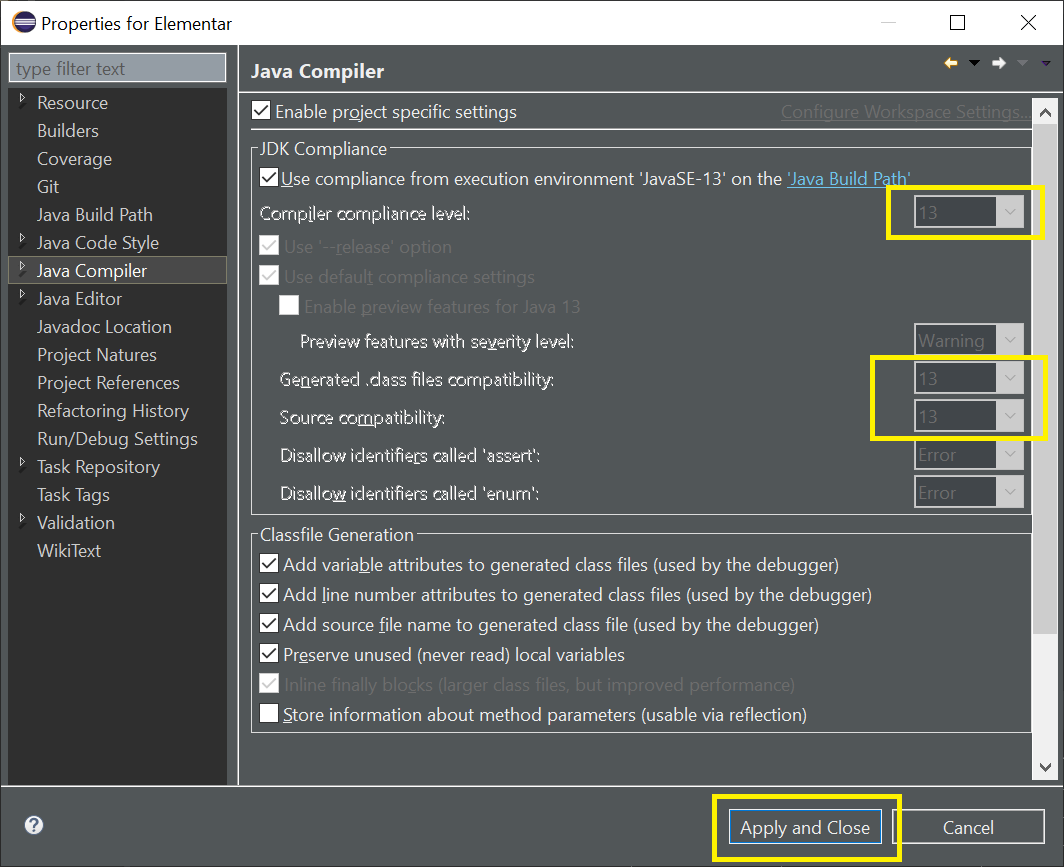
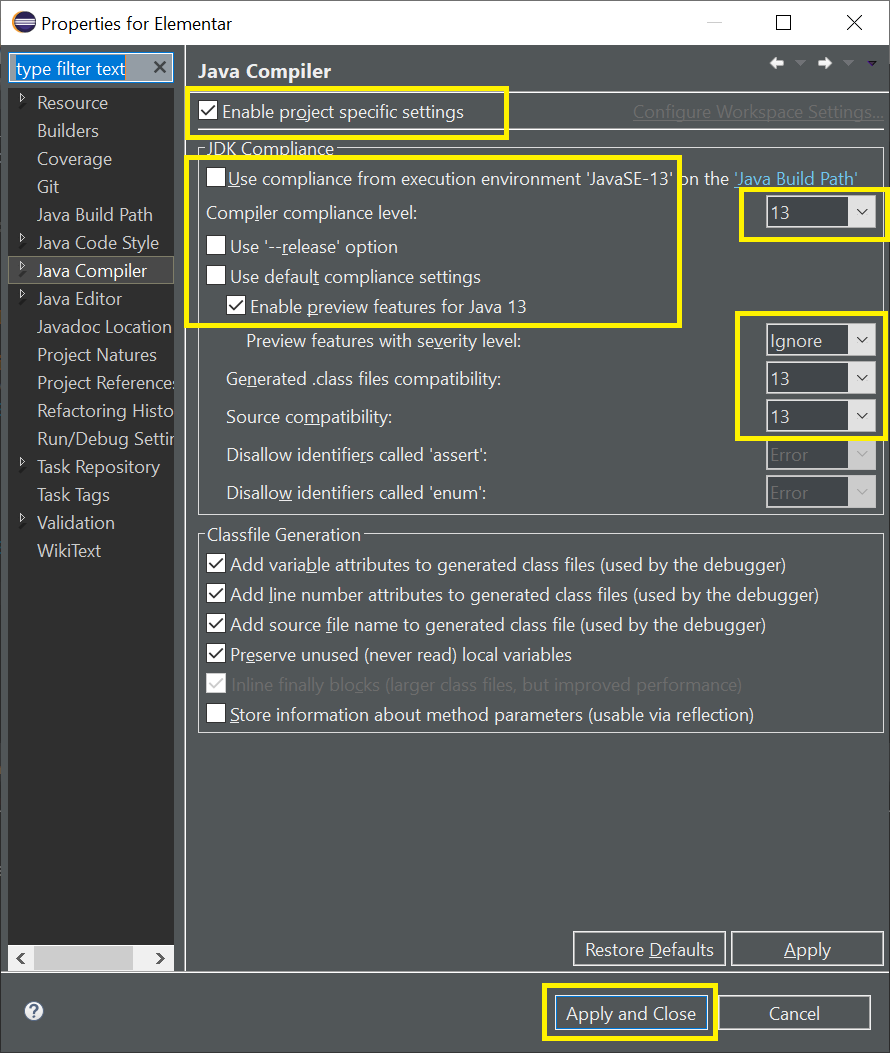
Strings multilinhas,com aspas e car.especiais

Changed region(s): [[0.0, 0.0, 1.0, 0.9965]]

diff --git a/Elementar/src/oracle/Magazine2019_10_22.java b/Elementar/src/oracle/Magazine2019_10_22.java
@@ -1,0 +1,26 @@
+package oracle;
+
+/*
+ * Autor: Magazine Oracle.com
+ * 
+ * Nota : Para correto uso no eclipse veja as configurações
+ *        que você precissa fazer no package a.config.eclipse
+ *        principalmente 5-java-compiler.png
+ */
+
+public class Magazine2019_10_22 {
+
+	public static void main(String[] args) {
+		
+		// Exemplo citado na revista da oracle deste mês 22/10/2019
+		
+		String html = """
+				<HTML>
+				  <BODY>
+				    <H1>"Java 13 is here!"</H1>
+				  </BODY>
+				</HTML>""";
+		System.out.println(html);
+	}
+
+}
